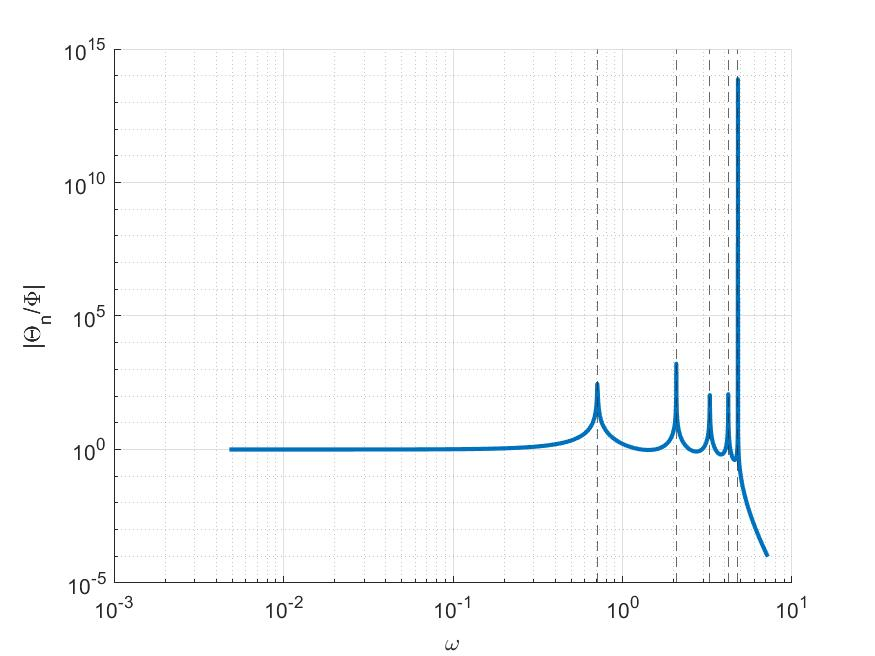
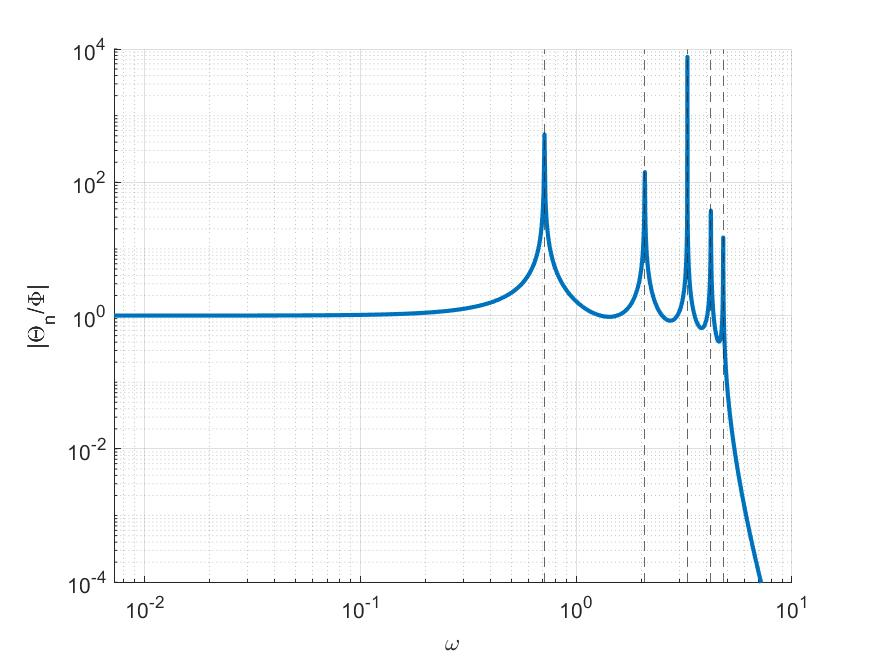
Changed Range

diff --git a/main.m b/main.m
@@ -91,7 +91,7 @@ P_ = 1;
 F = zeros(n, 1);
 F(1) = k*P_;
 
-w_e_range = max(w)*(0:0.001:1.5);
+w_e_range = max(w)*(0:1.5e-3:1.5);
 T_n_range = zeros(size(w_e_range));
 for j = 1:length(w_e_range)
     % Base Excitation Frequency
